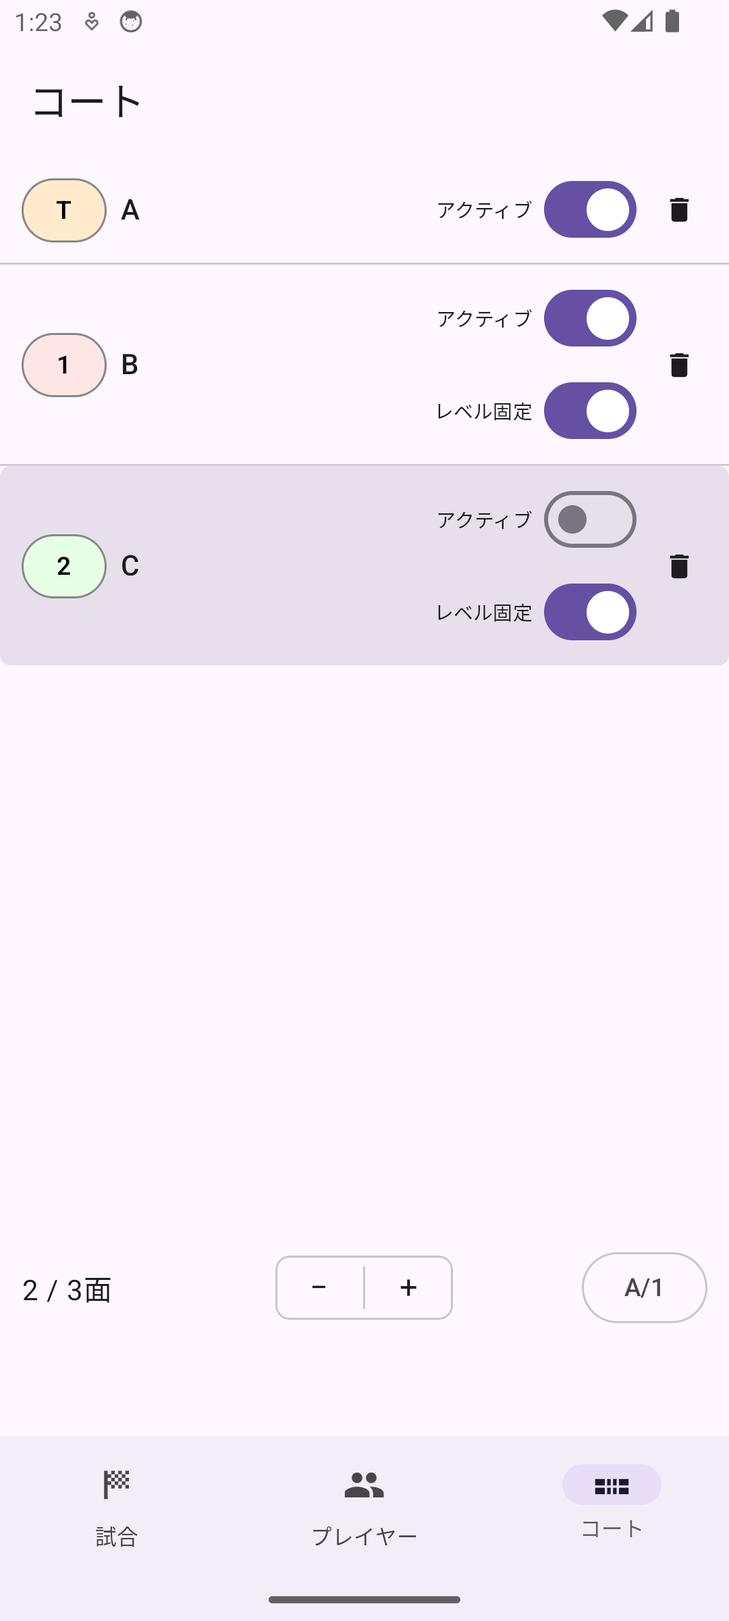
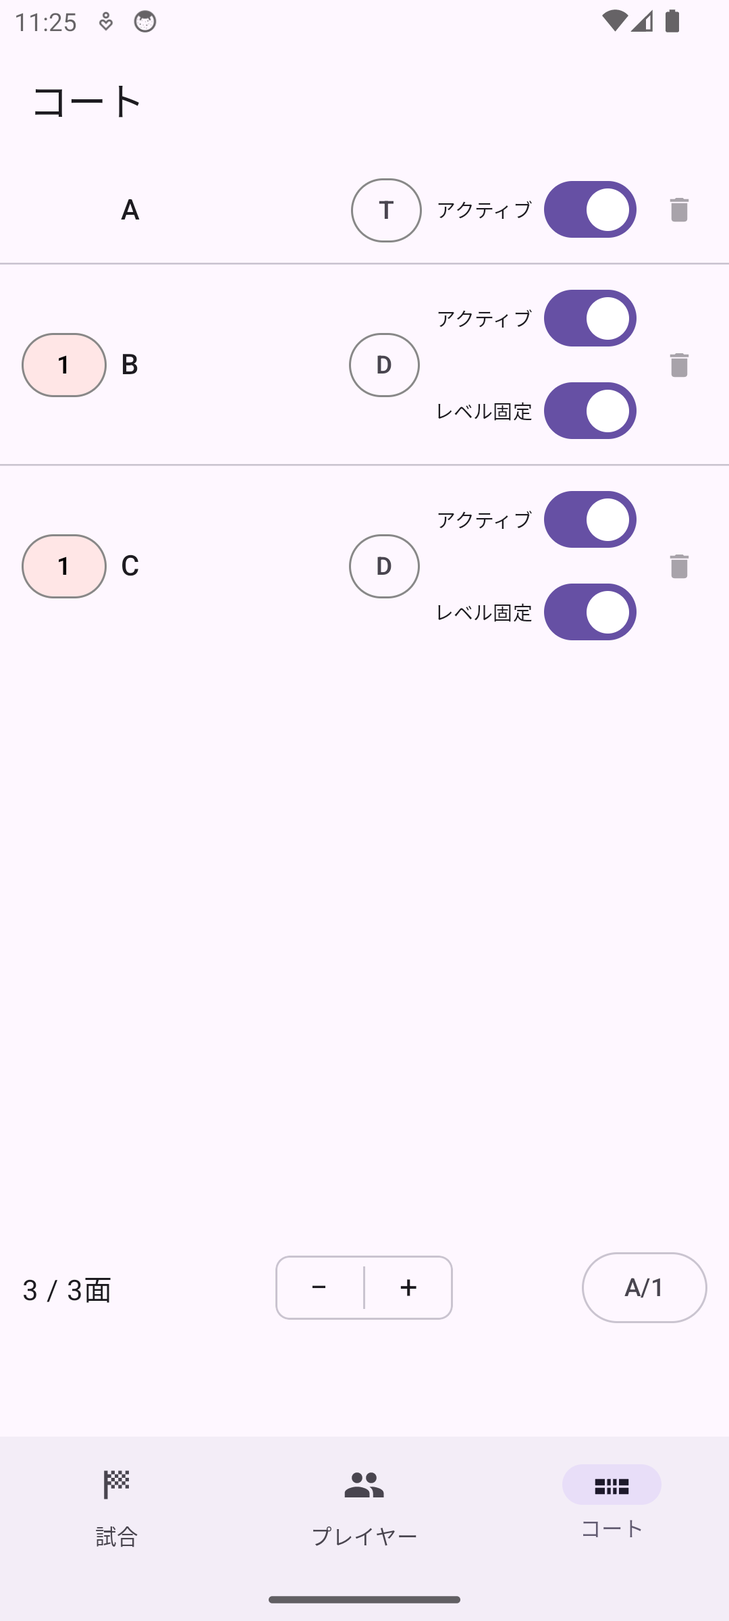
v1.2.33 のヘルプ: シングルス（1対1）に対応した説明を追加（iOS 1.37.0 を反映）
形式ボタン方式への説明の更新、高度な使い方にシングルスの節、スコア入力・組み替え・結果メール・サーバー機能の説明、更新履歴、逆引き、スクリーンショットを追加。
サーバー機能の「試験的」表記を外した。

diff --git a/game-tab.html b/game-tab.html
@@ -54,7 +54,7 @@
     <ul>
       <li><a href="#share-session">セッションを共有</a></li>
       <li><a href="#mail-results">結果をメールする</a></li>
-      <li><a href="#server">サーバー機能（試験的）</a></li>
+      <li><a href="#server">サーバー機能</a></li>
     </ul>
   </li>
 </ul>
@@ -89,6 +89,8 @@
 <p>固定ペアの人をタップすると、2人まとめて選ばれます。コート上の人と入れ替えるときは、その人のペア2人と丸ごと入れ替わります。待機中の人と入れ替えるときは、待機中の人をもう1人選んでください（待機中の固定ペアを選ぶこともできます）。</p>
 <p>トリプルス（T）のコートは、1チームが3人なので、入れ替えの対象は6人分になります。T のコート同士、または待機中の人との入れ替えができます（T のコートとダブルスのコートの間では入れ替えできません）。入れ替えは1人ずつ行います（固定ペアは、T のコートでは扱いません）。</p>
 <div class="ss"><img src="images/triples-edit-round.png" alt="トリプルスのコートを含む組み替え画面"></div>
+<p>シングルス（S）のコートは、S のコート同士、または待機中の人との入れ替えができます（ダブルス・トリプルスのコートとの間では入れ替えできません）。入れ替えは1人ずつ行います（固定ペアは、S のコートでは扱いません）。</p>
+<div class="ss"><img src="images/singles-edit-round.png" alt="シングルスのコートを含む組み替え画面"></div>
 <p>動かした人はオレンジの枠、変更したコートには「変更あり」と表示されます。右上の <strong>適用</strong> をタップすると確定し、左上の <strong>×</strong> で何も変えずに閉じます（変更があるときは、戻るボタンやジェスチャーでは閉じません）。</p>
 <ul>
   <li>組み替えても、試合数や待ち回数は組み替え後の顔ぶれで数え直され、次のラウンドの組み合わせにも反映されます</li>
@@ -227,6 +229,15 @@
 </ul>
 <div class="tip">💡 スコアのリセット（<a href="#reset-scores">試合結果をリセットする</a>・<a href="#reset-score">スコアをリセットする</a>）をすると、リベロの並びも最初の状態に戻ります。</div>
 
+<h3 id="singles-score">シングルスのスコア入力</h3>
+<p>シングルスの試合では、プレイヤー表示が<strong>名前1人ぶん</strong>の簡略表示になります。ラベルは「ペアA／ペアB」ではなく「A／B」で、サーブ権のある選手がオレンジ色で強調され（名前の隣に ▶ ／ ◀）、相手の選手はグレーの枠で示されます。サーブ権は得点に合わせて自動で切り替わり、ダブルスのような左右の立ち位置（サーバーの入れ替わり）の表示はありません。</p>
+<div class="ss"><img src="images/singles-score.png" alt="シングルスのスコア入力画面（名前とサーブ権の表示、2行のスコアシート）"></div>
+<ul>
+  <li>最初にサーブする側は、ゲーム開始前（0-0 の間）だけ、選手の名前をタップするか、「サーブ」の隣の <code>⇆</code> をタップして入れ替えできます</li>
+  <li><a href="#score-sheet">スコアシート</a>は <strong>A・B の2行</strong>です。最初にサーブする人の行に <code>S</code>、レシーブする人の行に <code>R</code> が入り、得点するたびに、その得点をした側の行に得点が記入されます</li>
+  <li>エンドチェンジ、得点の取り消し、ゲームの終了などは、ダブルスと同じ操作です</li>
+</ul>
+
 <h3 id="reset-score">スコアをリセットする</h3>
 <p>画面右上の <code>↻</code> アイコンから、そのゲームのスコアをリセットできます。</p>
 
@@ -262,15 +273,14 @@
   <li><code>A(s: Alice, Bob) 2 - 1 B(r: Carol, Dave)</code> のように表示されます。数字は勝ちゲーム数で、常に <strong>ペアA - ペアB</strong> の順です（まだ決着していない試合や引き分けも <code>0 - 0</code> / <code>1 - 1</code> と表示されます）</li>
   <li>名前の前の <code>s:</code> は第1ゲームの最初のサーバー、<code>r:</code> は最初のレシーバーを表します</li>
 </ul>
+<p>シングルスの試合は <code>A(s: Alice) 2 - 1 B(Bob)</code> のように表示され、最初にサーブした選手にだけ <code>s:</code> が付きます（<code>r:</code> は付きません）。</p>
 <p>トリプルスの試合では、結果サマリーに3人全員の名前が入ります。<code>A(s: Alice, Bob, L: Carol) 2 - 1 B(r: Dave, Eve, L: Frank)</code> のように、<code>s:</code>（最初のサーバー）・<code>r:</code>（最初のレシーバー）は第1ゲームで実際にサーブ／レシーブを担当する人に、<code>L:</code> は第1ゲームのリベロに付きます。</p>
-<p><strong>添付のスコアシート</strong>をタップして開くと、終了したゲームと、終了にしていなくても 0-0 以外のスコアが入っているゲームが、<a href="#score-sheet">スコア入力画面と同じ書き方</a>の表で並びます。見出しは <code>M1 Court A  G1 (21 : 18)</code> の形式で、結果サマリーと対応します。1ゲームぶんが折り返さずに横一列に並ぶので、長いゲームは横にスクロールしてご覧ください。スコアの入っていない試合は省略されます（勝ちゲーム数は、終了にしたゲームだけを数えます）。トリプルスの試合のスコアシートには、各ゲームのサーブ担当の2人だけが書かれます。</p>
+<p><strong>添付のスコアシート</strong>をタップして開くと、終了したゲームと、終了にしていなくても 0-0 以外のスコアが入っているゲームが、<a href="#score-sheet">スコア入力画面と同じ書き方</a>の表で並びます。見出しは <code>M1 Court A  G1 (21 : 18)</code> の形式で、結果サマリーと対応します。1ゲームぶんが折り返さずに横一列に並ぶので、長いゲームは横にスクロールしてご覧ください。スコアの入っていない試合は省略されます（勝ちゲーム数は、終了にしたゲームだけを数えます）。トリプルスの試合のスコアシートには、各ゲームのサーブ担当の2人だけが、シングルスの試合のスコアシートには、A・B の2行が書かれます。</p>
 <div class="tip">💡 スコアシートを本文ではなく添付にしているのは Android の仕組みによるものです。メールの本文を組み立てるのは送信に使うメールアプリ側で、アプリから表（HTML）を本文に入れる手段がありません。添付にすることで、どのメールアプリから送っても受け取った側で必ず表として開けます。</div>
 <div class="tip">💡 この端末にメールを送れるアプリがない場合は、その理由をお知らせするダイアログが出ます。<code>結果をコピー</code> をタップすると、スコアシートも含めた全文がテキスト形式でクリップボードにコピーされるので、お使いのアプリに貼り付けて送れます。</div>
 
-<h3 id="server">サーバー機能（試験的）</h3>
+<h3 id="server">サーバー機能</h3>
 <p>くみあぷを入れた端末（マスター）でサーバーを起動すると、同じ Wi-Fi に接続した他の携帯・タブレットの Web ブラウザから、現在の組み合わせやプレイヤー一覧を見たり、一部の操作を行ったりできます。大会運営スタッフなど、複数人でコート状況を共有したい場合に便利です。各コートにスマートフォンやタブレットを1台ずつ置き、コートごとにその場でスコアを付ける使い方もできます。普段のゲーム練などでもマスターの端末以外の複数端末から OS に関係なく現在の状況や進行を操作することが可能です。またゲーム練の途中からフリーモードに切り替えてコートごとにレベルを割り振って個別に進行を操作することも可能です。</p>
-<div class="warn">⚠ この機能は試験的なものです。今後の更新で仕様が変わる可能性があります。</div>
-
 <h4 id="start-server">サーバーを起動する</h4>
 <p><strong>試合</strong> タブ左上の Wi-Fi アイコン（または「⋮」メニューの「サーバーを起動」）をタップします。案内画面が表示されるので、内容を確認して「開始」をタップすると起動します。</p>
 <div class="ss"><img src="images/server-start.png" alt="サーバー起動画面"></div>
@@ -284,9 +294,10 @@
 <h4 id="web-features">Web ページでできること</h4>
 <ul>
   <li>現在の組み合わせ（ラウンド／フリー両モード対応）とプレイヤー一覧の確認</li>
-  <li>各コートの表示にレベルバッジを表示</li>
+  <li>各コートの表示にレベルバッジ（シングルスのコートは S、S1 など）を表示</li>
   <li><strong>スコア入力</strong> — コートの組み合わせをタップするとスコア入力画面が開きます。アプリ本体と同じ構成（ペアA/ペアBラベル、勝ちゲーム数の固定表示、大きな得点ボタン、<a href="#score-sheet">スコアシート</a>）で、タップの都度サーバーへ即時反映されます。プレイヤー名タップでのサーバー/レシーバー交代（得点が入る前のみ）、undo、エンド交替・サーブ交代、セット（ゲーム）の終了設定、スコアのリセットに対応</li>
   <li><strong>トリプルスの表示とリベロの交代</strong> — T のコートは、一覧に「T」のバッジが付き、3人が2行で表示されます。スコア入力画面には、サーブ担当の2人の下にリベロの行が出て、タップで交代できます（そのゲームが 0-0 の間だけ。同じ試合で同じ人が再びリベロになると警告マークが出ます）</li>
+  <li><strong>シングルスの表示とスコア入力</strong> — S のコートは、一覧に「S」のバッジが付き、<code>名前 vs 名前</code> の1行で表示されます。スコア入力画面は名前1人ずつの簡略表示で、名前をタップすると、最初にサーブする側を入れ替えられます（そのゲームが 0-0 の間だけ）。スコアシートは A・B の2行です</li>
   <li><strong>組み合わせ生成</strong> — 次のラウンドの組み合わせを生成します</li>
   <li><strong>コートの終了／再開</strong>（フリーモード時）— コートをタップして切り替えます</li>
   <li><strong>プレイヤーの出場／休憩の切り替え</strong></li>

diff --git a/advanced.html b/advanced.html
@@ -41,6 +41,7 @@
   </li>
   <li><a href="#mix-doubles">2. ミックスダブルス（レベル 1&amp;2）</a></li>
   <li><a href="#triples">3. トリプルス（3人制）</a></li>
+  <li><a href="#singles">4. シングルス（1対1）</a></li>
 </ul>
 </nav>
 
@@ -70,7 +71,7 @@
 <div class="note">⚠ <strong>固定ペア</strong>を組んでいるプレイヤーは 1&amp;2 コートの対象外です（固定ペアは同レベルに揃うため、必ずレベル1×レベル2で組む 1&amp;2 コートの条件と両立しないため）。固定ペアのプレイヤーは通常のレベル別コート、またはレベルフリーのコートに割り当てられます。</div>
 
 <h2 id="triples">3. トリプルス（3人制）</h2>
-<p>コートタブでレベルバッジを <strong>T</strong> にすると、そのコートはトリプルス（3人 対 3人）になります。日本バドミントン専門店会の<strong>日本式（リベロ方式）</strong>に沿った遊び方です。ダブルスのコートと同時に使えます（例：ダブルス2面＋トリプルス1面）。</p>
+<p>コートタブでコートの形式ボタンを <strong>T</strong> にすると、そのコートはトリプルス（3人 対 3人）になります。日本バドミントン専門店会の<strong>日本式（リベロ方式）</strong>に沿った遊び方です。ダブルスのコートと同時に使えます（例：ダブルス2面＋トリプルス1面）。</p>
 
 <h3 id="triples-players">必要な人数</h3>
 <ul>
@@ -90,8 +91,8 @@
   <li>Tのコートの組み合わせは、生成したあとのラウンド編集で入れ替えできます（<a href="game-tab.html#edit-round">組み合わせを組み替える</a>）</li>
 </ul>
 
-<h3 id="triples-fixed">生成したあとはレベルを変更できません</h3>
-<p>ラウンドを生成すると、そのコートのレベル（T や 1&amp;2 を含む）は組み合わせと一緒に保存されます。あとからコートのレベルを変えても、すでに生成したラウンドの表示は変わりません。</p>
+<h3 id="triples-fixed">生成したあとは形式・レベルを変更できません</h3>
+<p>ラウンドを生成すると、そのコートの形式とレベル（1&amp;2 を含む）は組み合わせと一緒に保存されます。あとからコートの形式やレベルを変えても、すでに生成したラウンドの表示は変わりません。</p>
 
 <h3 id="triples-old">旧バージョンとの関係（必ずお読みください）</h3>
 <div class="note">⚠ トリプルスに対応したバージョン（1.2.32）への更新後、初めて起動したときに、データ形式が更新されたことをお知らせするダイアログが1回だけ表示されます。<strong>旧バージョンでこのデータを開くと、トリプルスの情報（3人目・Tのコート）が消えます。</strong>セッションを共有する相手がいる場合は、相手のアプリも更新されているか確認してください。</div>
@@ -102,6 +103,43 @@
 </ul>
 <p>トリプルスの試合は、各チームの3人が表示されます（2行に分けて、2人・1人の順。3人目がリベロです）。スコアの入力とリベロの交代は<a href="game-tab.html#triples-score">スコア入力画面</a>で行います。</p>
 <div class="ss"><img src="images/triples-game-list.png" alt="トリプルスの組み合わせ一覧（チームごとに2行表示）"></div>
+
+<h2 id="singles">4. シングルス（1対1）</h2>
+<p>コートタブで形式ボタンを <strong>S</strong> にすると、そのコートはシングルス（1人 対 1人）になります。ダブルス・トリプルスのコートと同時に使えます（例：ダブルス1面＋シングルス2面）。</p>
+<div class="ss"><img src="images/singles-court-level.png" alt="コートAとBの形式をシングルスにしたコート一覧"></div>
+
+<h3 id="singles-players">必要な人数</h3>
+<ul>
+  <li>シングルスのコートは1面につき2人が必要です（ダブルスは4人、トリプルスは6人）。プレイヤーの人数は、シングルスのコートがあるときは2人まで減らせます</li>
+  <li>2人に満たないときは、そのコートを作らずにお知らせが出ます。ダブルスだけの人数不足のときは、お知らせは出ません</li>
+  <li>フリーモードの最低人数は、シングルスやトリプルスのコートがあるときは、各コートの必要人数の合計です（ダブルスのみなら従来どおり8人。1&amp;2 のコートは数えません）</li>
+</ul>
+
+<h3 id="singles-gen">組み合わせの作り方</h3>
+<ul>
+  <li>出場回数をそろえることを最優先にし、そのうえで、対戦相手がなるべく偏らないようにします（過去の対戦が少ない相手と当たるようにします。直前のラウンドと同じ対戦は避けます）</li>
+  <li>レベル分けも使えます。レベルを指定したコートでは同じレベルの人同士、1&amp;2 のコートではレベル1の人とレベル2の人が対戦します</li>
+  <li>固定ペアは、シングルスでは使いません（固定ペアの2人が対戦相手になることもあります）</li>
+  <li>生成したあとのラウンド編集では、シングルス同士・待機中の人との入れ替えができます（ダブルス・トリプルスのコートとの入れ替えはできません。入れ替えは1人ずつ行います）</li>
+</ul>
+<div class="ss"><img src="images/singles-game-list.png" alt="シングルスの組み合わせ一覧（コートAがS1、コートBがS、コートCがダブルス）"></div>
+<p>組み合わせ一覧では、シングルスの試合は <code>名前 vs 名前</code> の1行で表示され、コートのバッジは <strong>S</strong>（レベル固定のコートは <strong>S1</strong>・<strong>S2</strong>・<strong>S3</strong>・<strong>S1&amp;2</strong>）になります。生成したあとにコートの形式やレベルを変えても、すでに生成した試合の表示は変わりません。</p>
+<div class="ss"><img src="images/singles-edit-round.png" alt="シングルスのコートを含む組み替え画面"></div>
+
+<h3 id="singles-score">スコア入力</h3>
+<ul>
+  <li>シングルスのスコア画面は簡略表示で、名前が1人ずつ表示され、サーブ権のある選手が強調されます（<a href="game-tab.html#singles-score">スコア入力画面</a>）</li>
+  <li>最初にサーブする側は、スコアが 0-0 の間だけ、選手の名前（または「サーブ」の隣の <code>⇆</code>）をタップして入れ替えできます</li>
+  <li>スコアシートは A・B の2行です。結果メールでは、最初にサーブした選手にだけ「s: 」が付きます（「r: 」は付きません）</li>
+</ul>
+
+<h3 id="singles-old">旧バージョンとの関係（必ずお読みください）</h3>
+<div class="note">⚠ 初めてコートをシングルスに切り替えたときに、旧バージョンとの関係をお知らせするダイアログが1回だけ表示されます（端末ごと）。<strong>旧バージョンでこのデータを開くと、シングルスのコートはダブルスのコートになり、シングルスの試合の情報は消えます。</strong>他の端末や、セッションを共有する相手のアプリも更新してください。</div>
+<div class="ss"><img src="images/singles-notice-alert.png" alt="初めてコートをシングルスにしたときに表示されるお知らせ"></div>
+<ul>
+  <li>ダブルス・トリプルスだけの試合情報は、これまでどおり旧バージョンでも使えます</li>
+  <li>旧バージョンで開いたあとに保存されると、シングルスの情報が消えた状態になります。共有する相手のアップデートがそろうまでは、シングルスの試合情報を旧バージョンで開かないでください</li>
+</ul>
 
 </body>
 </html>

diff --git a/home.html b/home.html
@@ -42,9 +42,9 @@
 <body>
 
 <h1>くみあぷ（PairGen）</h1>
-<p><span class="badge">v1.2.32</span><span class="badge">対応 iOS v1.36.0</span></p>
+<p><span class="badge">v1.2.33</span><span class="badge">対応 iOS v1.37.0</span></p>
 <div class="note">⚠ This help is available in Japanese only. Please use your browser's auto-translate feature.</div>
-<p>くみあぷ（PairGen）はバドミントン・テニスなどのダブルス競技向けに、組み合わせを自動生成する Android と iOS のアプリです。参加人数とコート数を設定するだけで、重複を最小限に抑えた組み合わせをすぐに生成できます。スコアの記録や結果のシェアのほか、Google ドライブを使った出欠管理との連動にも対応しています。</p>
+<p>くみあぷ（PairGen）はバドミントン・テニスなどのダブルス、バドミントンの日本式トリプルス（3人制）・シングルスの組み合わせを自動生成する Android と iOS のアプリです。参加人数とコート数を設定するだけで、重複を最小限に抑えた組み合わせをすぐに生成できます。スコアの記録や結果のシェアのほか、Google ドライブを使った出欠管理との連動にも対応しています。</p>
 
 <nav class="pages">
   <a href="getting-started.html">使ってみよう！</a>
@@ -82,10 +82,10 @@
 <p class="video-link"><a href="videos.html">使い方動画の一覧を見る →</a></p>
 
 <h2>主な機能</h2>
-<p>「くみあぷ」は、バドミントン・テニスのダブルス練習会やサークル・部活動の運営を手軽にする、組み合わせ自動生成＆スコア管理アプリです。参加人数とコート数を入力するだけで、公平な対戦表・コート分けを瞬時に作成できます。</p>
+<p>「くみあぷ」は、バドミントン・テニスのダブルス練習会、バドミントンの日本式トリプルス（3人制）・シングルスの練習会やサークル・部活動の運営を手軽にする、組み合わせ自動生成＆スコア管理アプリです。参加人数とコート数を入力するだけで、公平な対戦表・コート分けを瞬時に作成できます。</p>
 
 <h3>組み合わせ・対戦表を自動生成</h3>
-<p>参加人数とコート数を入力するだけで、公平なローテーションでペアと対戦表を自動生成します。</p>
+<p>参加人数とコート数を入力するだけで、公平なローテーションで組み合わせと対戦表を自動生成します。</p>
 <ul>
   <li>ラウンドモード：全員が均等に組み合わさるよう自動でローテーション管理</li>
   <li>フリーモード：コートが空き次第、待たずに次の組み合わせを生成</li>
@@ -93,6 +93,8 @@
   <li>レベル（強さ）設定でペア分けのバランスを調整</li>
   <li>固定ペアの指定にも対応（カップルや実力差のあるペアを固定したい場合に）</li>
   <li>ミックスダブルス対応</li>
+  <li>日本式トリプルス（リベロ方式）に対応：コートの形式をトリプルスにすると、1コート6人（3人 対 3人）の組み合わせを生成。スコア入力ではリベロの表示・交代も可能</li>
+  <li>シングルスにも対応：コートの形式をシングルスにすると、1コート2人（1人 対 1人）の組み合わせを生成。レベル分け（1&amp;2 はレベル1とレベル2の対戦）も使えます</li>
 </ul>
 
 <h3>スコア管理も1つのアプリで完結</h3>
@@ -121,6 +123,7 @@
 <h3>コート管理</h3>
 <ul>
   <li>複数コート対応、コートごとのレベル固定設定</li>
+  <li>コートごとに形式（ダブルス／トリプルス／シングルス）を切り替え</li>
 </ul>
 
 <h3>データの共有</h3>
@@ -130,7 +133,7 @@
   <li>Google スプレッドシートで集めた参加者の出欠を、プレイヤー一覧に取り込み（<a href="attendance-overview.html">Google スプレッドシート連携</a>）</li>
 </ul>
 
-<h3>他の端末からも見られるサーバー機能（試験的）</h3>
+<h3>他の端末からも見られるサーバー機能</h3>
 <p>試合タブからサーバーを起動すると、同じWi-Fiに接続した他の携帯・タブレットのWebブラウザから組み合わせ・プレイヤー一覧の閲覧やスコア入力が可能です。会場の別の場所からでも進行状況を確認できます。</p>
 <p>接続した端末は、見るだけでなくスコア入力などの操作もできます。各コートにスマートフォンやタブレットを1台ずつ置けば、コートごとにその場でスコアを付けられます。</p>
 
@@ -138,7 +141,7 @@
 <ul>
   <li>バドミントンサークル・部活動の練習試合の組み合わせ決め、対戦表作成</li>
   <li>大会や練習会でのコート割り振り・休憩管理・スコア記録</li>
-  <li>急な欠席・追加にも柔軟に対応できるダブルスのローテーション管理</li>
+  <li>急な欠席・追加にも柔軟に対応できるローテーション管理</li>
 </ul>
 
 <p>シンプルな操作で、毎回の「誰と誰が組むか」「どのコートで何点か」の管理から解放されます。日本語・英語・韓国語・中国語（簡体字/繁体字）・インドネシア語に対応しています。</p>
@@ -152,6 +155,15 @@
   <li>プレイヤー一覧の並べ替えは、行の並べ替えハンドルを長押し&amp;ドラッグする方式（iOS版は行を直接長押し）。削除や組み合わせの組み替えもアイコンタップ（iOS版はスワイプ）</li>
   <li>試合結果メール本文は英語のみ（UI本体は多言語対応）</li>
 </ul>
+
+<h2>バージョン 1.2.33 更新内容（v1.2.32 からの変更点）</h2>
+<div class="note">✨ <strong>シングルス（1人 対 1人）に対応しました。</strong>コートの形式ボタンをシングルスにすると、1コート2人で組み合わせを作れます。ダブルス・トリプルスのコートと同時に使えます。（<a href="advanced.html#singles">高度な使い方</a>）</div>
+<ul>
+  <li>コートの設定方法が変わりました。形式（ダブルス／トリプルス／シングルス）はコート名の隣の形式ボタンで、レベルはレベルボタンで切り替えます（<a href="courts-tab.html#court-level">コートタブ</a>）（iOS反映）</li>
+  <li>シングルスのスコア入力では、サーブ権のある選手だけを表示します。結果メールでは、最初にサーブした選手に「s: 」が付きます（iOS反映）</li>
+  <li>結果メールで、サーブ・レシーブの印（s: / r: / L:）が実際の選手と逆になる場合があったのを修正しました（偶数番目のラウンドの試合や、エンドチェンジをしたあと。iOS反映）</li>
+</ul>
+<div class="note">⚠ 初めてコートをシングルスに切り替えたときに、旧バージョンとの関係をお知らせするダイアログが1回だけ表示されます。旧バージョンでこのデータを開くと、シングルスのコートはダブルスのコートになり、シングルスの試合の情報は消えます。他の端末や、セッションを共有する相手のアプリも更新してください。</div>
 
 <h2>バージョン 1.2.32 更新内容（v1.2.31 からの変更点）</h2>
 <div class="note">✨ <strong>トリプルス（3人制）に対応しました。</strong>コートのレベルボタンを T にすると、1コート6人（3人 対 3人）で組み合わせを作れます。スコア入力ではリベロも扱えます。（<a href="advanced.html#triples">高度な使い方</a>）</div>

diff --git a/index.html b/index.html
@@ -42,9 +42,9 @@
 <body>
 
 <h1>くみあぷ（PairGen）</h1>
-<p><span class="badge">v1.2.32</span><span class="badge">対応 iOS v1.36.0</span></p>
+<p><span class="badge">v1.2.33</span><span class="badge">対応 iOS v1.37.0</span></p>
 <div class="note">⚠ This help is available in Japanese only. Please use your browser's auto-translate feature.</div>
-<p>くみあぷ（PairGen）はバドミントン・テニスなどのダブルス競技向けに、組み合わせを自動生成する Android と iOS のアプリです。参加人数とコート数を設定するだけで、重複を最小限に抑えた組み合わせをすぐに生成できます。スコアの記録や結果のシェアのほか、Google ドライブを使った出欠管理との連動にも対応しています。</p>
+<p>くみあぷ（PairGen）はバドミントン・テニスなどのダブルス、バドミントンの日本式トリプルス（3人制）・シングルスの組み合わせを自動生成する Android と iOS のアプリです。参加人数とコート数を設定するだけで、重複を最小限に抑えた組み合わせをすぐに生成できます。スコアの記録や結果のシェアのほか、Google ドライブを使った出欠管理との連動にも対応しています。</p>
 
 <nav class="pages">
   <a href="getting-started.html">使ってみよう！</a>
@@ -82,10 +82,10 @@
 <p class="video-link"><a href="videos.html">使い方動画の一覧を見る →</a></p>
 
 <h2>主な機能</h2>
-<p>「くみあぷ」は、バドミントン・テニスのダブルス練習会やサークル・部活動の運営を手軽にする、組み合わせ自動生成＆スコア管理アプリです。参加人数とコート数を入力するだけで、公平な対戦表・コート分けを瞬時に作成できます。</p>
+<p>「くみあぷ」は、バドミントン・テニスのダブルス練習会、バドミントンの日本式トリプルス（3人制）・シングルスの練習会やサークル・部活動の運営を手軽にする、組み合わせ自動生成＆スコア管理アプリです。参加人数とコート数を入力するだけで、公平な対戦表・コート分けを瞬時に作成できます。</p>
 
 <h3>組み合わせ・対戦表を自動生成</h3>
-<p>参加人数とコート数を入力するだけで、公平なローテーションでペアと対戦表を自動生成します。</p>
+<p>参加人数とコート数を入力するだけで、公平なローテーションで組み合わせと対戦表を自動生成します。</p>
 <ul>
   <li>ラウンドモード：全員が均等に組み合わさるよう自動でローテーション管理</li>
   <li>フリーモード：コートが空き次第、待たずに次の組み合わせを生成</li>
@@ -93,6 +93,8 @@
   <li>レベル（強さ）設定でペア分けのバランスを調整</li>
   <li>固定ペアの指定にも対応（カップルや実力差のあるペアを固定したい場合に）</li>
   <li>ミックスダブルス対応</li>
+  <li>日本式トリプルス（リベロ方式）に対応：コートの形式をトリプルスにすると、1コート6人（3人 対 3人）の組み合わせを生成。スコア入力ではリベロの表示・交代も可能</li>
+  <li>シングルスにも対応：コートの形式をシングルスにすると、1コート2人（1人 対 1人）の組み合わせを生成。レベル分け（1&amp;2 はレベル1とレベル2の対戦）も使えます</li>
 </ul>
 
 <h3>スコア管理も1つのアプリで完結</h3>
@@ -121,6 +123,7 @@
 <h3>コート管理</h3>
 <ul>
   <li>複数コート対応、コートごとのレベル固定設定</li>
+  <li>コートごとに形式（ダブルス／トリプルス／シングルス）を切り替え</li>
 </ul>
 
 <h3>データの共有</h3>
@@ -130,7 +133,7 @@
   <li>Google スプレッドシートで集めた参加者の出欠を、プレイヤー一覧に取り込み（<a href="attendance-overview.html">Google スプレッドシート連携</a>）</li>
 </ul>
 
-<h3>他の端末からも見られるサーバー機能（試験的）</h3>
+<h3>他の端末からも見られるサーバー機能</h3>
 <p>試合タブからサーバーを起動すると、同じWi-Fiに接続した他の携帯・タブレットのWebブラウザから組み合わせ・プレイヤー一覧の閲覧やスコア入力が可能です。会場の別の場所からでも進行状況を確認できます。</p>
 <p>接続した端末は、見るだけでなくスコア入力などの操作もできます。各コートにスマートフォンやタブレットを1台ずつ置けば、コートごとにその場でスコアを付けられます。</p>
 
@@ -138,7 +141,7 @@
 <ul>
   <li>バドミントンサークル・部活動の練習試合の組み合わせ決め、対戦表作成</li>
   <li>大会や練習会でのコート割り振り・休憩管理・スコア記録</li>
-  <li>急な欠席・追加にも柔軟に対応できるダブルスのローテーション管理</li>
+  <li>急な欠席・追加にも柔軟に対応できるローテーション管理</li>
 </ul>
 
 <p>シンプルな操作で、毎回の「誰と誰が組むか」「どのコートで何点か」の管理から解放されます。日本語・英語・韓国語・中国語（簡体字/繁体字）・インドネシア語に対応しています。</p>
@@ -152,6 +155,15 @@
   <li>プレイヤー一覧の並べ替えは、行の並べ替えハンドルを長押し&amp;ドラッグする方式（iOS版は行を直接長押し）。削除や組み合わせの組み替えもアイコンタップ（iOS版はスワイプ）</li>
   <li>試合結果メール本文は英語のみ（UI本体は多言語対応）</li>
 </ul>
+
+<h2>バージョン 1.2.33 更新内容（v1.2.32 からの変更点）</h2>
+<div class="note">✨ <strong>シングルス（1人 対 1人）に対応しました。</strong>コートの形式ボタンをシングルスにすると、1コート2人で組み合わせを作れます。ダブルス・トリプルスのコートと同時に使えます。（<a href="advanced.html#singles">高度な使い方</a>）</div>
+<ul>
+  <li>コートの設定方法が変わりました。形式（ダブルス／トリプルス／シングルス）はコート名の隣の形式ボタンで、レベルはレベルボタンで切り替えます（<a href="courts-tab.html#court-level">コートタブ</a>）（iOS反映）</li>
+  <li>シングルスのスコア入力では、サーブ権のある選手だけを表示します。結果メールでは、最初にサーブした選手に「s: 」が付きます（iOS反映）</li>
+  <li>結果メールで、サーブ・レシーブの印（s: / r: / L:）が実際の選手と逆になる場合があったのを修正しました（偶数番目のラウンドの試合や、エンドチェンジをしたあと。iOS反映）</li>
+</ul>
+<div class="note">⚠ 初めてコートをシングルスに切り替えたときに、旧バージョンとの関係をお知らせするダイアログが1回だけ表示されます。旧バージョンでこのデータを開くと、シングルスのコートはダブルスのコートになり、シングルスの試合の情報は消えます。他の端末や、セッションを共有する相手のアプリも更新してください。</div>
 
 <h2>バージョン 1.2.32 更新内容（v1.2.31 からの変更点）</h2>
 <div class="note">✨ <strong>トリプルス（3人制）に対応しました。</strong>コートのレベルボタンを T にすると、1コート6人（3人 対 3人）で組み合わせを作れます。スコア入力ではリベロも扱えます。（<a href="advanced.html#triples">高度な使い方</a>）</div>

diff --git a/courts-tab.html b/courts-tab.html
@@ -29,7 +29,7 @@
 <ul>
   <li><a href="#court-count">1. コート数を増減する</a></li>
   <li><a href="#court-name">2. コート名の表記を切り替える</a></li>
-  <li><a href="#court-level">3. コートのレベルを設定する</a></li>
+  <li><a href="#court-level">3. コートの形式とレベルを設定する</a></li>
   <li><a href="#court-config">4. コートの設定（アクティブ・レベル固定）を変更する</a></li>
 </ul>
 </nav>
@@ -42,17 +42,19 @@
 <h2 id="court-name">2. コート名の表記を切り替える</h2>
 <p>画面下部の <code>A/1</code> ボタンをタップすると、コート名をアルファベット（A・B・C…）と数字（1・2・3…）で切り替えられます。</p>
 
-<h2 id="court-level">3. コートのレベルを設定する</h2>
-<p>各コートの左端にあるレベルバッジをタップするたびに 1→2→3→1&amp;2→<strong>T</strong>→1 と切り替わります。レベル分けの詳しい使い方は「高度な使い方」をご覧ください。</p>
-<p><strong>T</strong> は<strong>トリプルス（3人制）</strong>のコートです。1コートに <strong>6人</strong>（3人 対 3人）が必要です。T のコートでは、「レベル固定」のスイッチは表示されません。詳しくは「高度な使い方」の<a href="advanced.html#triples">トリプルス（3人制）</a>をご覧ください。</p>
-<div class="ss"><img src="images/triples-court-level.png" alt="コートのレベルバッジを T にしたコート一覧"></div>
-<div class="tip">💡 T のコートは、プレイヤーのレベルに関係なく、残りのプレイヤーから6人が選ばれます。T のコートではミックス（1&amp;2）の組み合わせは作りません。</div>
+<h2 id="court-level">3. コートの形式とレベルを設定する</h2>
+<p>各コートの左端にあるレベルバッジをタップするたびに 1→2→3→1&amp;2→1 と切り替わります。レベル分けの詳しい使い方は「高度な使い方」をご覧ください。</p>
+<p>コート名の隣にある<strong>形式ボタン</strong>をタップすると、ダブルス（D）→トリプルス（T）→シングルス（S）→ダブルスと切り替わります。<strong>T</strong> は<strong>トリプルス（3人制）</strong>で1コートに <strong>6人</strong>（3人 対 3人）、<strong>S</strong> は<strong>シングルス</strong>で1コートに <strong>2人</strong>（1人 対 1人）が必要です。T のコートでは、レベルバッジの場所は空きになり、「レベル固定」のスイッチも表示されません。詳しくは「高度な使い方」の<a href="advanced.html#triples">トリプルス（3人制）</a>・<a href="advanced.html#singles">シングルス（1対1）</a>をご覧ください。</p>
+<div class="ss"><img src="images/triples-court-level.png" alt="コートAの形式をトリプルス（T）にしたコート一覧"></div>
+<div class="ss"><img src="images/singles-court-level.png" alt="コートAとBの形式をシングルス（S）にしたコート一覧"></div>
+<div class="tip">💡 T のコートは、プレイヤーのレベルに関係なく、残りのプレイヤーから6人が選ばれます。T のコートではミックス（1&amp;2）の組み合わせは作りません。S のコートでは、レベルとレベル固定を使えます（1&amp;2 はレベル1の人とレベル2の人が対戦します）。</div>
+<div class="note">⚠ 初めてコートをシングルスにしたときは、旧バージョンとの関係をお知らせするダイアログが1回だけ表示されます（<a href="advanced.html#singles-old">旧バージョンとの関係</a>）。</div>
 
 <h2 id="court-config">4. コートの設定（アクティブ・レベル固定）を変更する</h2>
 <p>各コートの行の右側に、次の2つの設定がトグルとして直接表示されます。タップして別画面を開く必要はありません。</p>
 <ul>
   <li><strong>アクティブ</strong> — オフにするとそのコートは組み合わせ生成の対象外になります。オフのコートは行全体がグレー表示になります</li>
-  <li><strong>レベル固定</strong> — オンにすると、設定したレベルのプレイヤーのみそのコートに割り当てられます。オフにすると、レベルに関係なく割り当てられます</li>
+  <li><strong>レベル固定</strong> — オンにすると、設定したレベルのプレイヤーのみそのコートに割り当てられます。オフにすると、レベルに関係なく割り当てられます（T のコートでは表示されません）</li>
 </ul>
 
 </body>

diff --git a/update-history.html b/update-history.html
@@ -20,6 +20,15 @@
 <p class="back-link"><a href="home.html">← ホームに戻る</a></p>
 <h1>更新履歴</h1>
 
+<h2>v1.2.33</h2>
+<ul>
+  <li>シングルス（1人 対 1人）に対応しました。コートの形式ボタンで切り替えると、1コート2人の組み合わせが作れます。ダブルス・トリプルスのコートと同時に使えます（iOS反映）</li>
+  <li>コートの設定方法が変わりました。形式（ダブルス／トリプルス／シングルス）はコート名の隣の形式ボタンで、レベルはレベルボタンで切り替えます。レベルボタンの切り替えは 1→2→3→1&amp;2→1 になりました（iOS反映）</li>
+  <li>シングルスのスコア入力では、サーブ権のある選手だけを表示します。結果メールでは、最初にサーブした選手に「s: 」が付きます（iOS反映）</li>
+  <li>結果メールで、サーブ・レシーブの印（s: / r: / L:）が実際の選手と逆になる場合があったのを修正しました（偶数番目のラウンドの試合や、エンドチェンジをしたあと。iOS反映）</li>
+  <li>初めてコートをシングルスにしたときに、お知らせが1回表示されます。旧バージョンでこのデータを開くと、シングルスの情報が消えます。他の端末や共有する相手のアプリも更新してください</li>
+</ul>
+
 <h2>v1.2.32</h2>
 <ul>
   <li>トリプルス（3人制）に対応しました。コートのレベルボタンを T にすると、1コート6人（3人 対 3人）の組み合わせが作れます（iOS反映）</li>

diff --git a/reverse-lookup.html b/reverse-lookup.html
@@ -67,6 +67,9 @@
   <li><a href="advanced.html#mix-doubles">男女混合や実力差のある2人を必ずペアにしたい</a> <a class="vid" href="videos.html#fixed-pair" title="使い方動画を見る" aria-label="使い方動画を見る">▶</a></li>
   <li><a href="courts-tab.html#court-config">特定のコートは誰でも入れるようにしたい</a></li>
   <li><a href="courts-tab.html#court-name">コート名をA・B・Cから数字に変えたい（またはその逆）</a></li>
+  <li><a href="advanced.html#triples">3人制（トリプルス）で組み合わせを作りたい</a></li>
+  <li><a href="advanced.html#singles">1対1（シングルス）で組み合わせを作りたい</a></li>
+  <li><a href="courts-tab.html#court-level">コートごとに形式（ダブルス／トリプルス／シングルス）を変えたい</a></li>
 </ul>
 
 <h2>進行・トラブル対応</h2>
